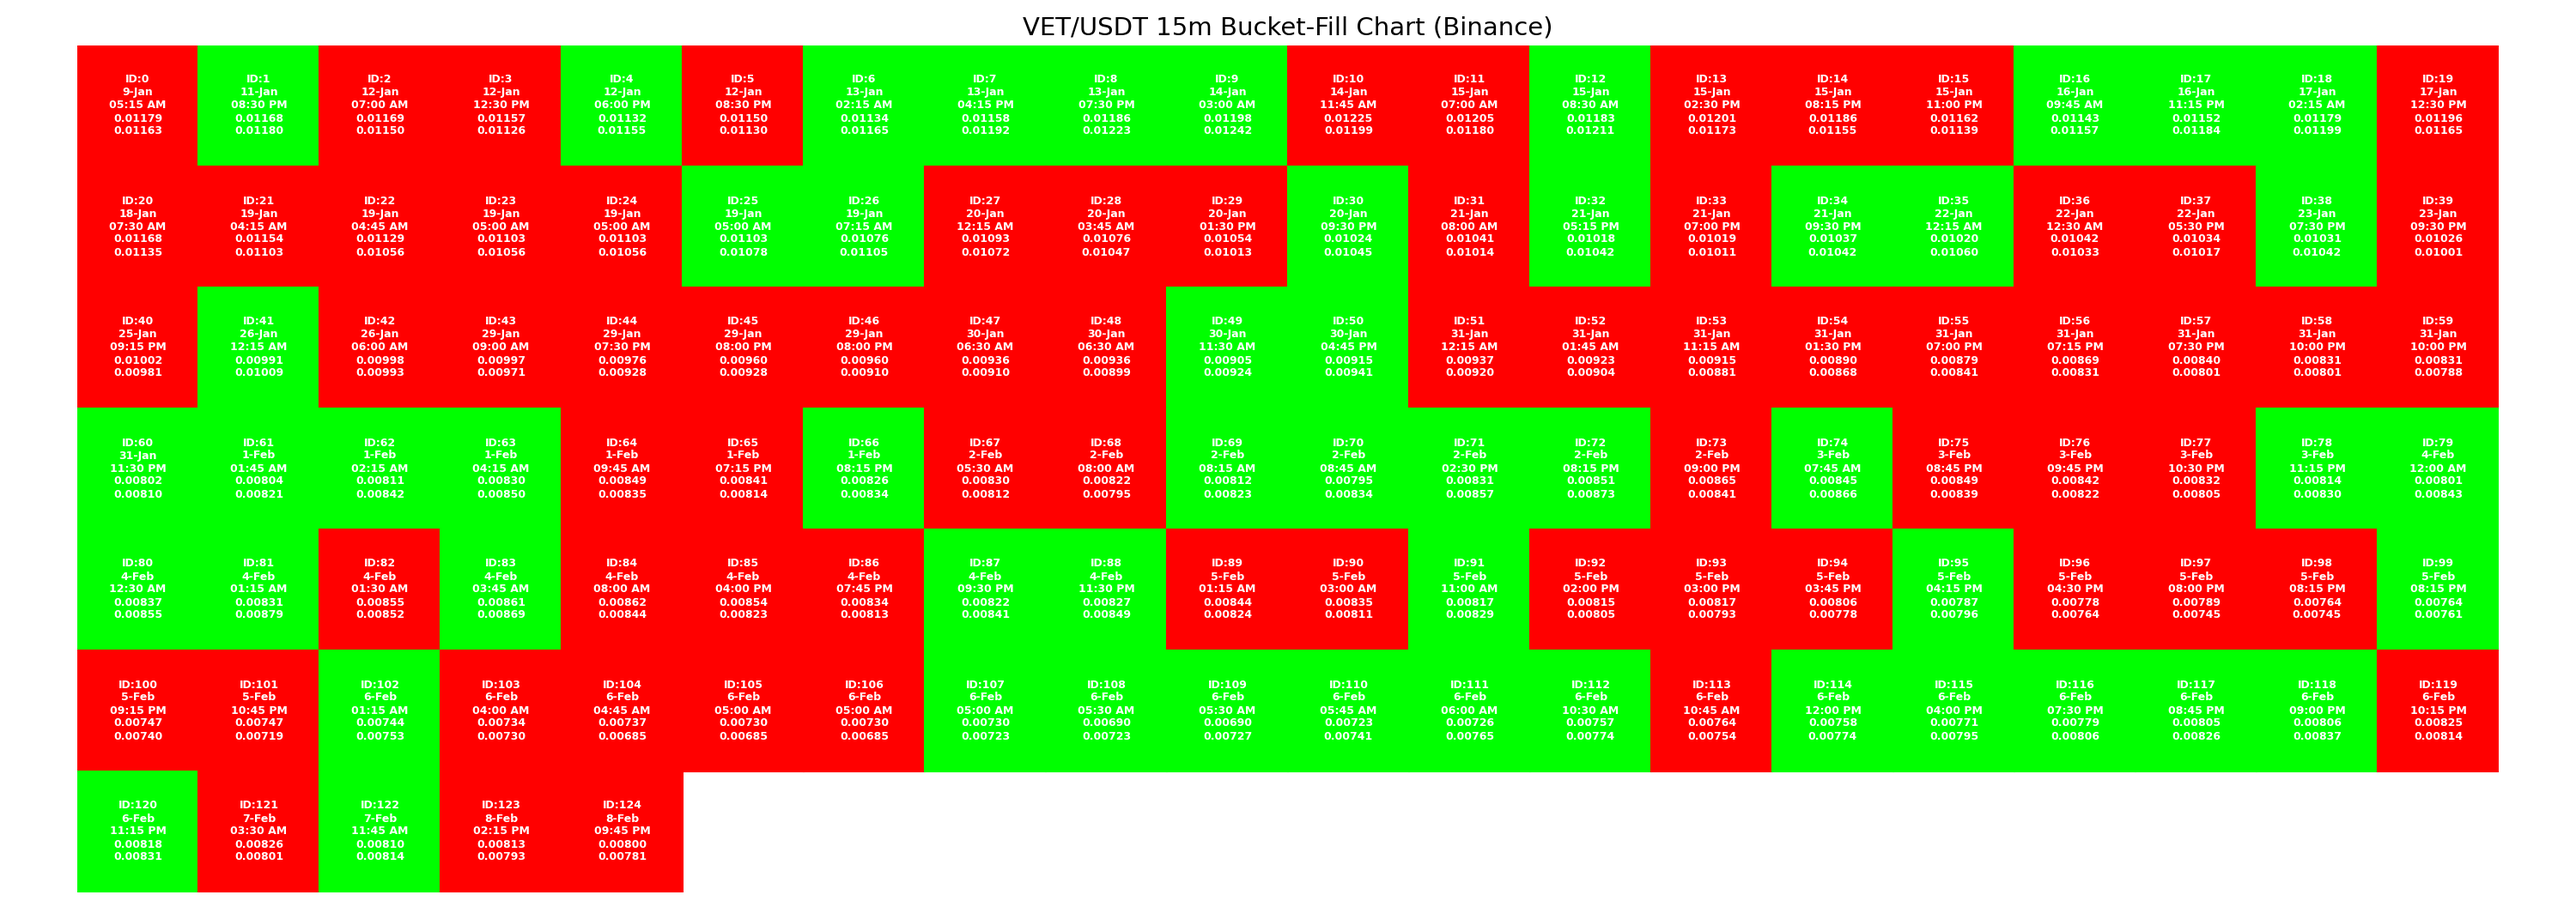
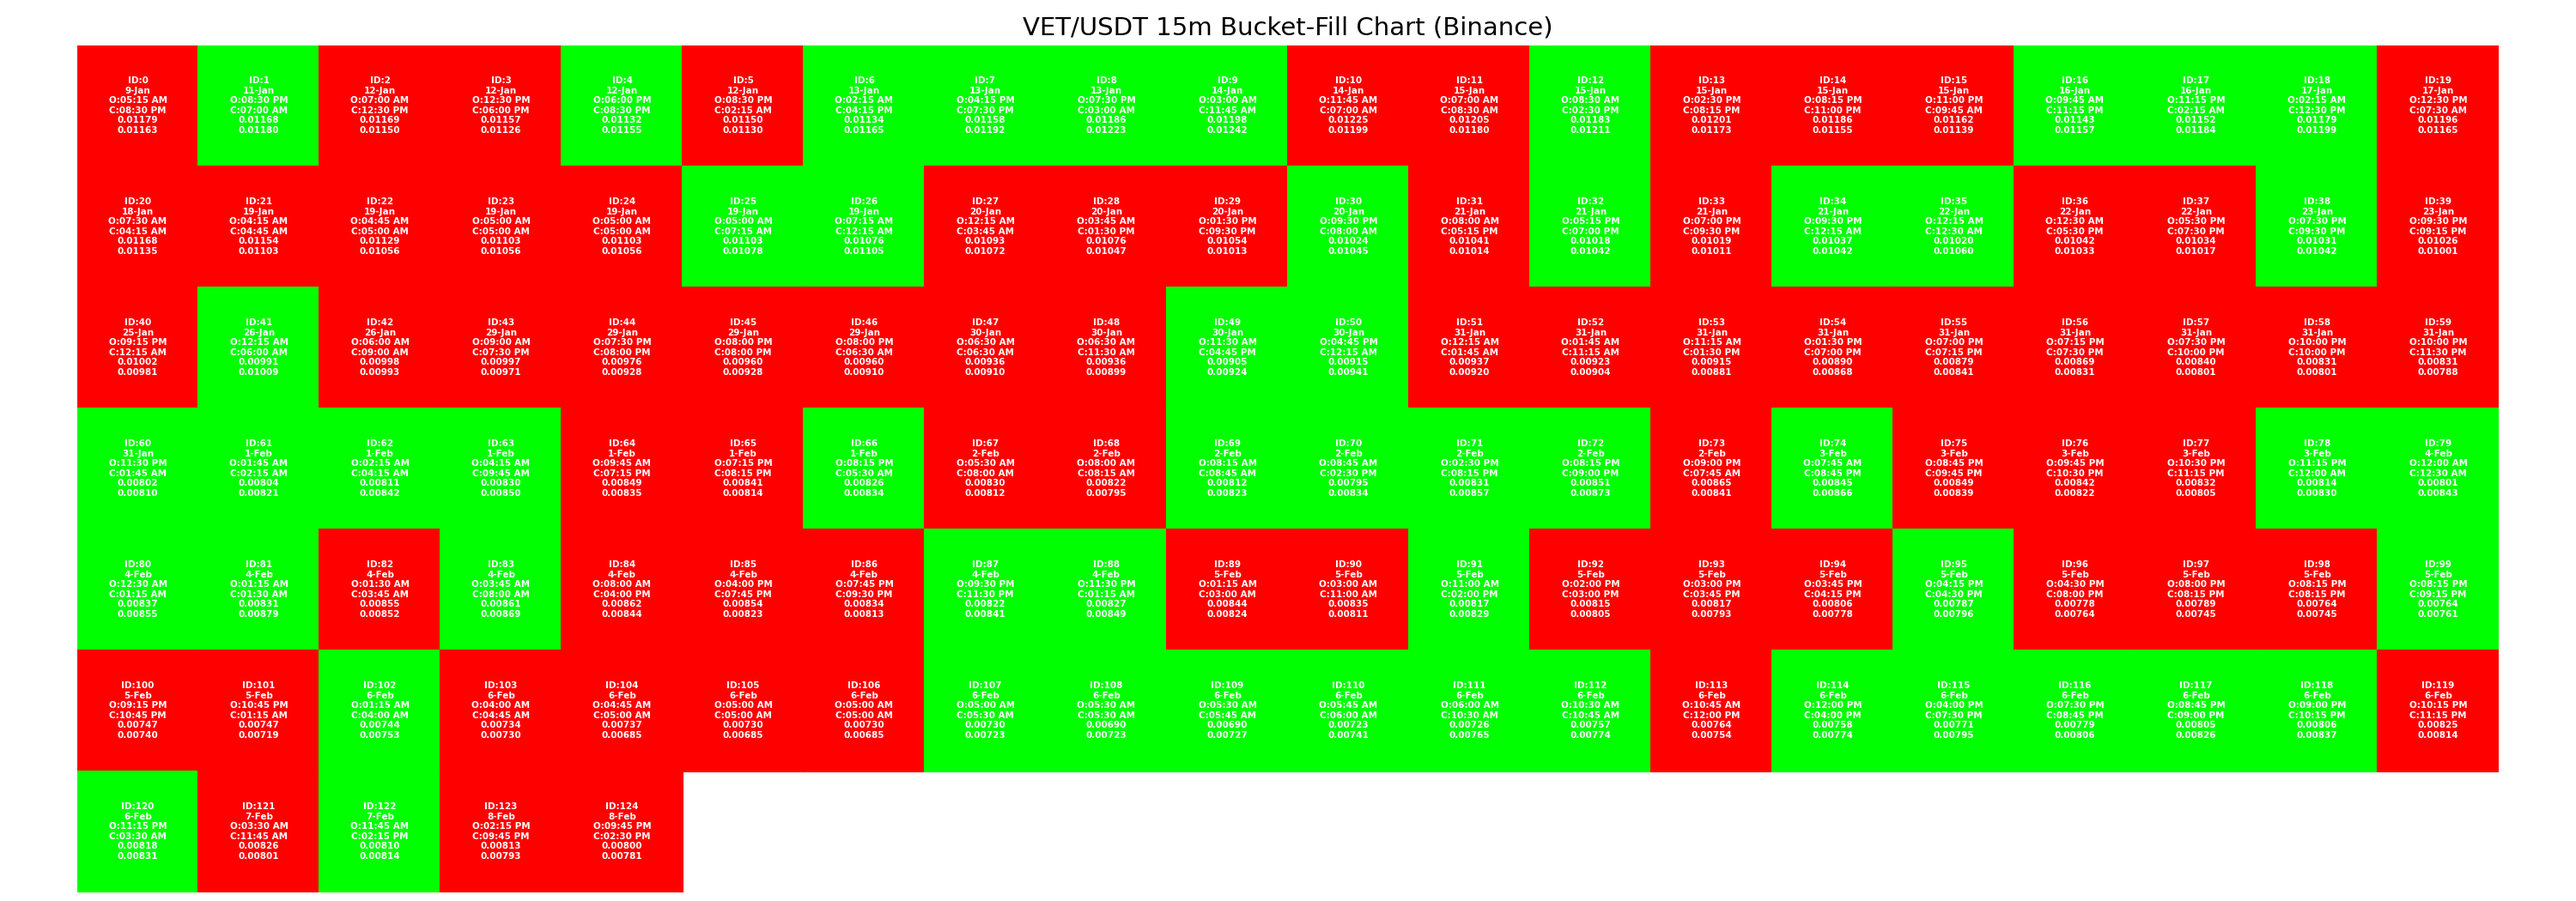
added time

diff --git a/shard2/runner/bot_prod.py b/shard2/runner/bot_prod.py
@@ -227,6 +227,7 @@ def process_coin(coin: str, out_dir: Path):
         cup_open_price = None
         cup_close_price = None
         cup_start_date = None
+        cup_end_date = None
 
         for _, row in df.iterrows():
             o, c = row["open"], row["close"]
@@ -252,12 +253,14 @@ def process_coin(coin: str, out_dir: Path):
                         "open": cup_open_price,
                         "close": cup_close_price,
                         "date": cup_start_date,
+                        "end_date": cup_end_date,
                     })
                     cup_id_counter += 1
                     current_fill = 0.0
                     cup_open_price = None
                     cup_close_price = None
                     cup_start_date = None
+                    cup_end_date = None
                     continue
 
                 delta = min(abs(remaining), capacity_left)
@@ -265,11 +268,13 @@ def process_coin(coin: str, out_dir: Path):
                 current_fill += delta
                 remaining -= delta
                 cup_close_price = c
+                cup_end_date = ts
 
                 if current_fill == 0:
                     cup_open_price = None
                     cup_close_price = None
                     cup_start_date = None
+                    cup_end_date = None
                     break
 
         complete_cups = [cup for cup in cups if abs(cup["fill"]) >= CUP_SIZE_PCT]
@@ -338,6 +343,7 @@ def process_coin(coin: str, out_dir: Path):
                 o_price = cup["open"]
                 c_price = cup["close"]
                 date = cup["date"]
+                end_date = cup.get("end_date")
                 cup_id = cup["id"]
 
                 r = rows - 1 - i // COLS
@@ -350,14 +356,19 @@ def process_coin(coin: str, out_dir: Path):
 
                 if o_price is not None and c_price is not None and date is not None:
                     # Convert to GMT+5 for display
-                    gmt5_date = date + timedelta(hours=5)
+                    gmt5_open = date + timedelta(hours=5)
+                    if end_date is not None:
+                        gmt5_close = end_date + timedelta(hours=5)
+                        close_time_str = gmt5_close.strftime('%I:%M %p')
+                    else:
+                        close_time_str = "N/A"
                     ax.text(
                         c + 0.5,
                         r + 0.5,
-                        f"ID:{cup_id}\n{gmt5_date.strftime('%d-%b').lstrip('0')}\n{gmt5_date.strftime('%I:%M %p')}\n{o_price:.5f}\n{c_price:.5f}",
+                        f"ID:{cup_id}\n{gmt5_open.strftime('%d-%b').lstrip('0')}\nO:{gmt5_open.strftime('%I:%M %p')}\nC:{close_time_str}\n{o_price:.5f}\n{c_price:.5f}",
                         ha="center",
                         va="center",
-                        fontsize=6,
+                        fontsize=5,
                         color="white",
                         weight="bold",
                     )
